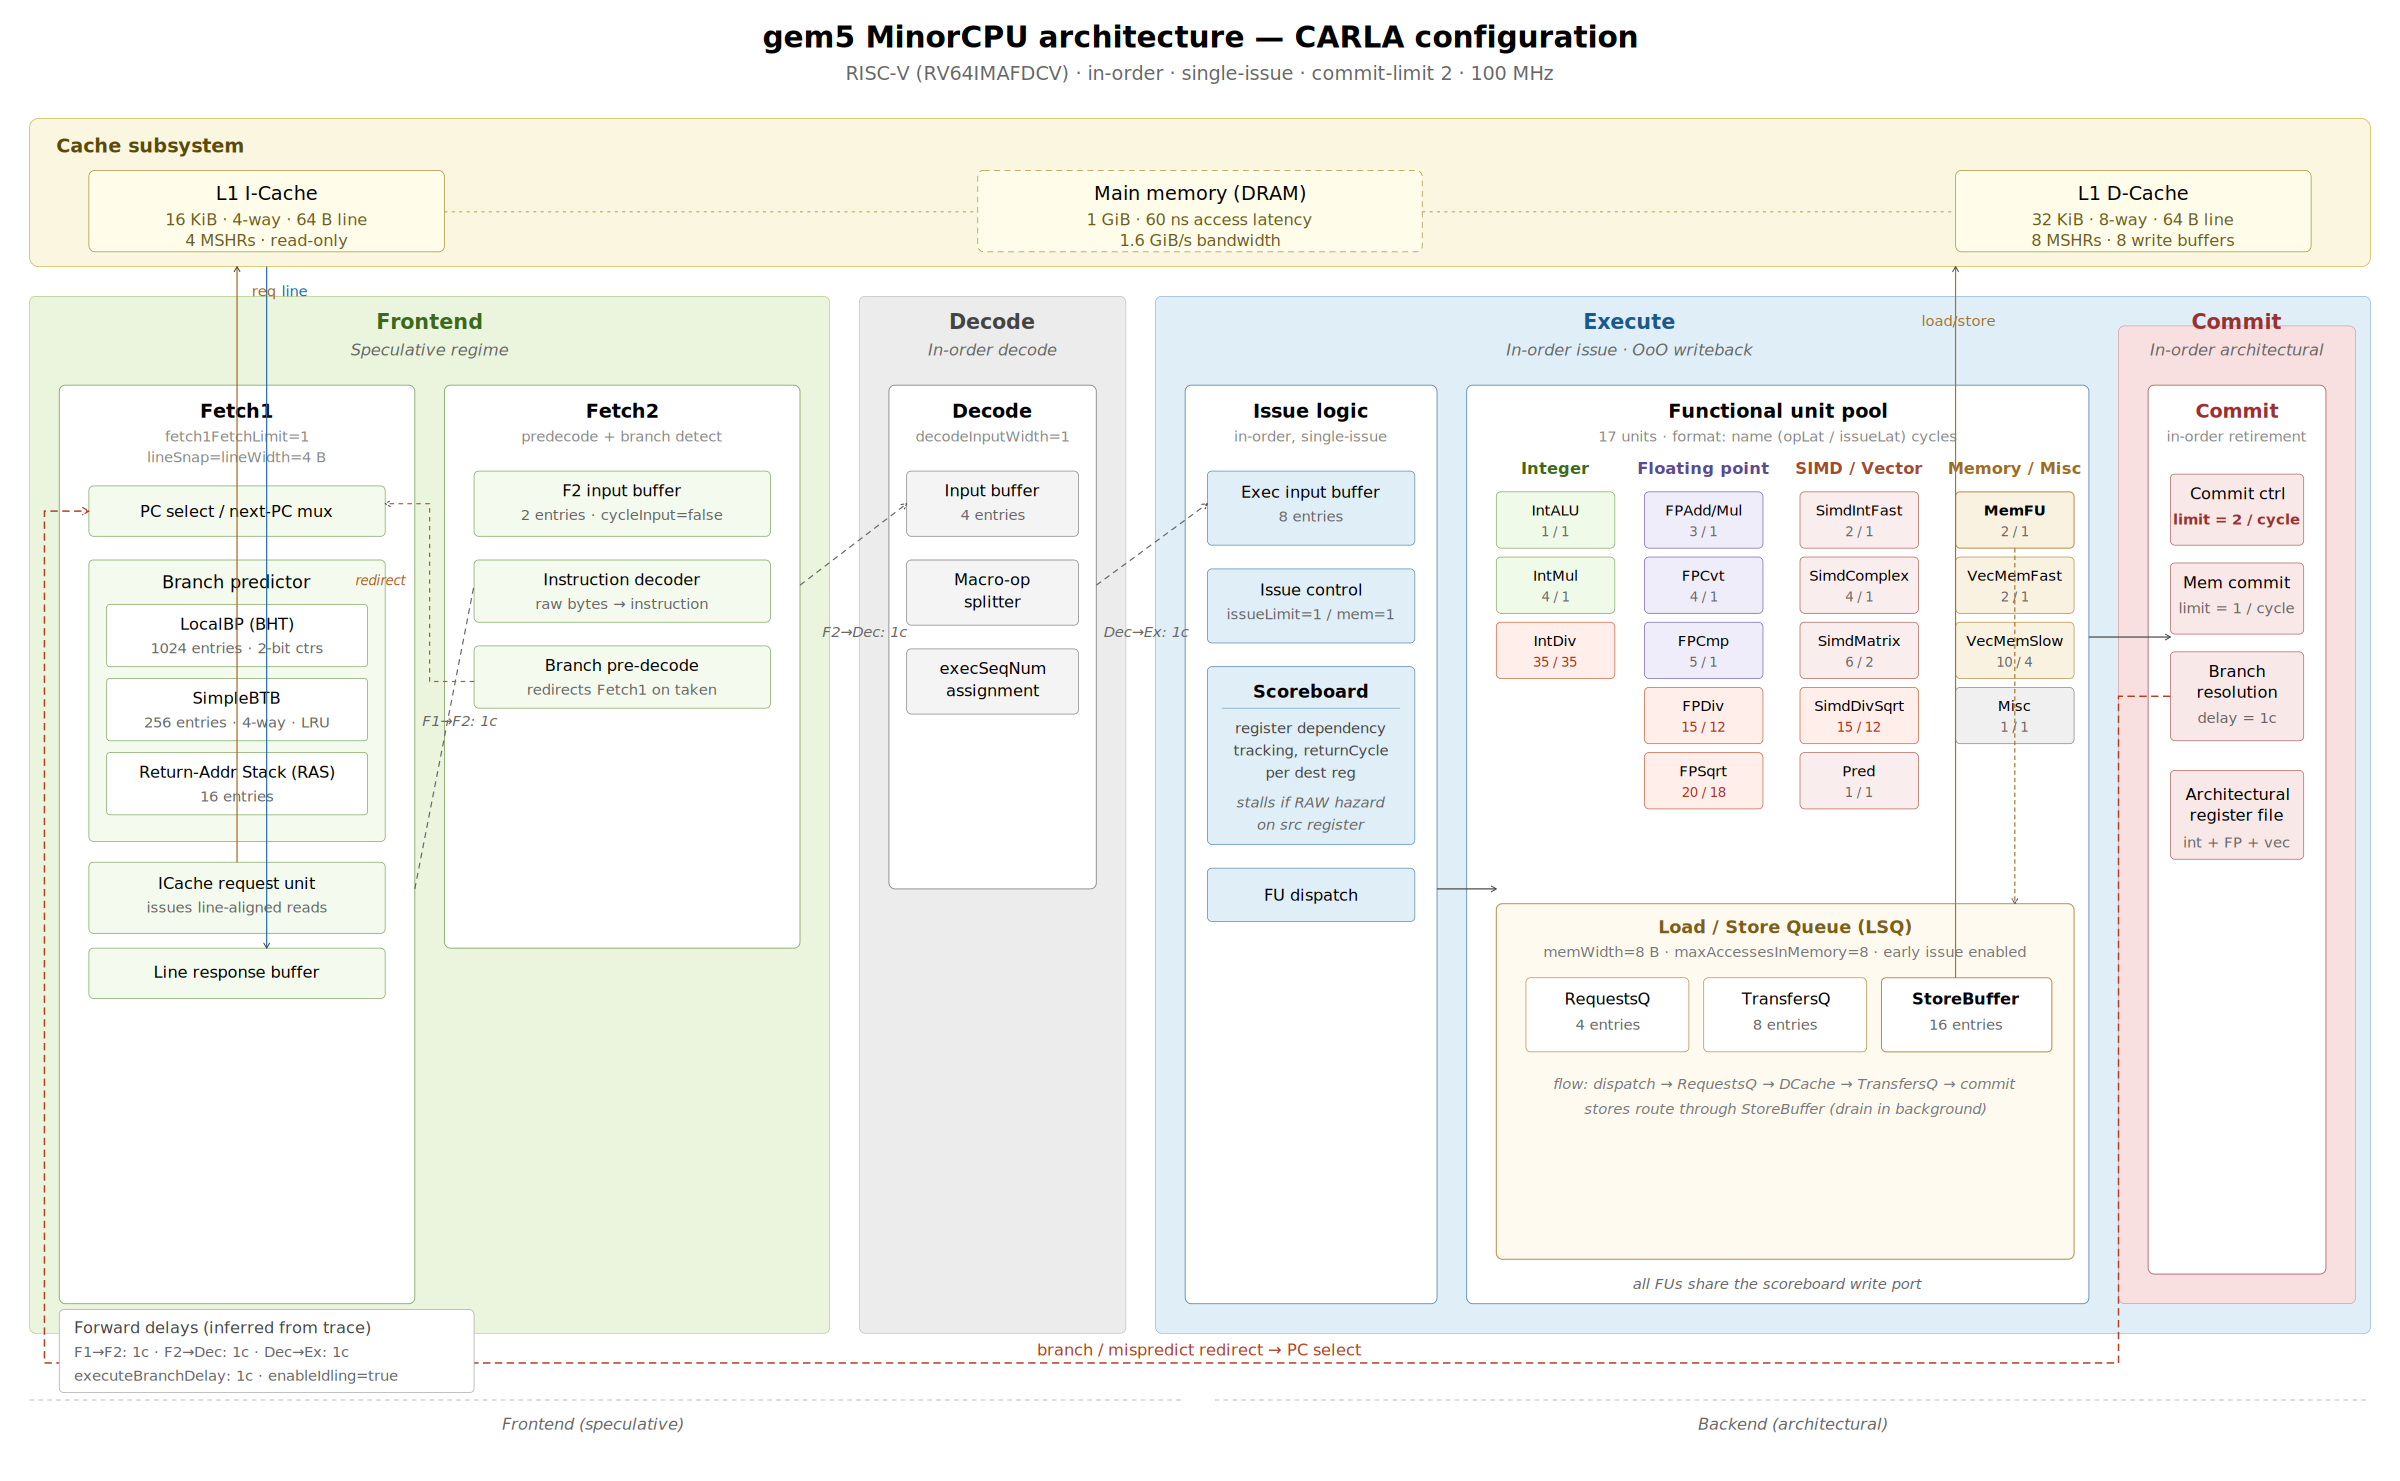
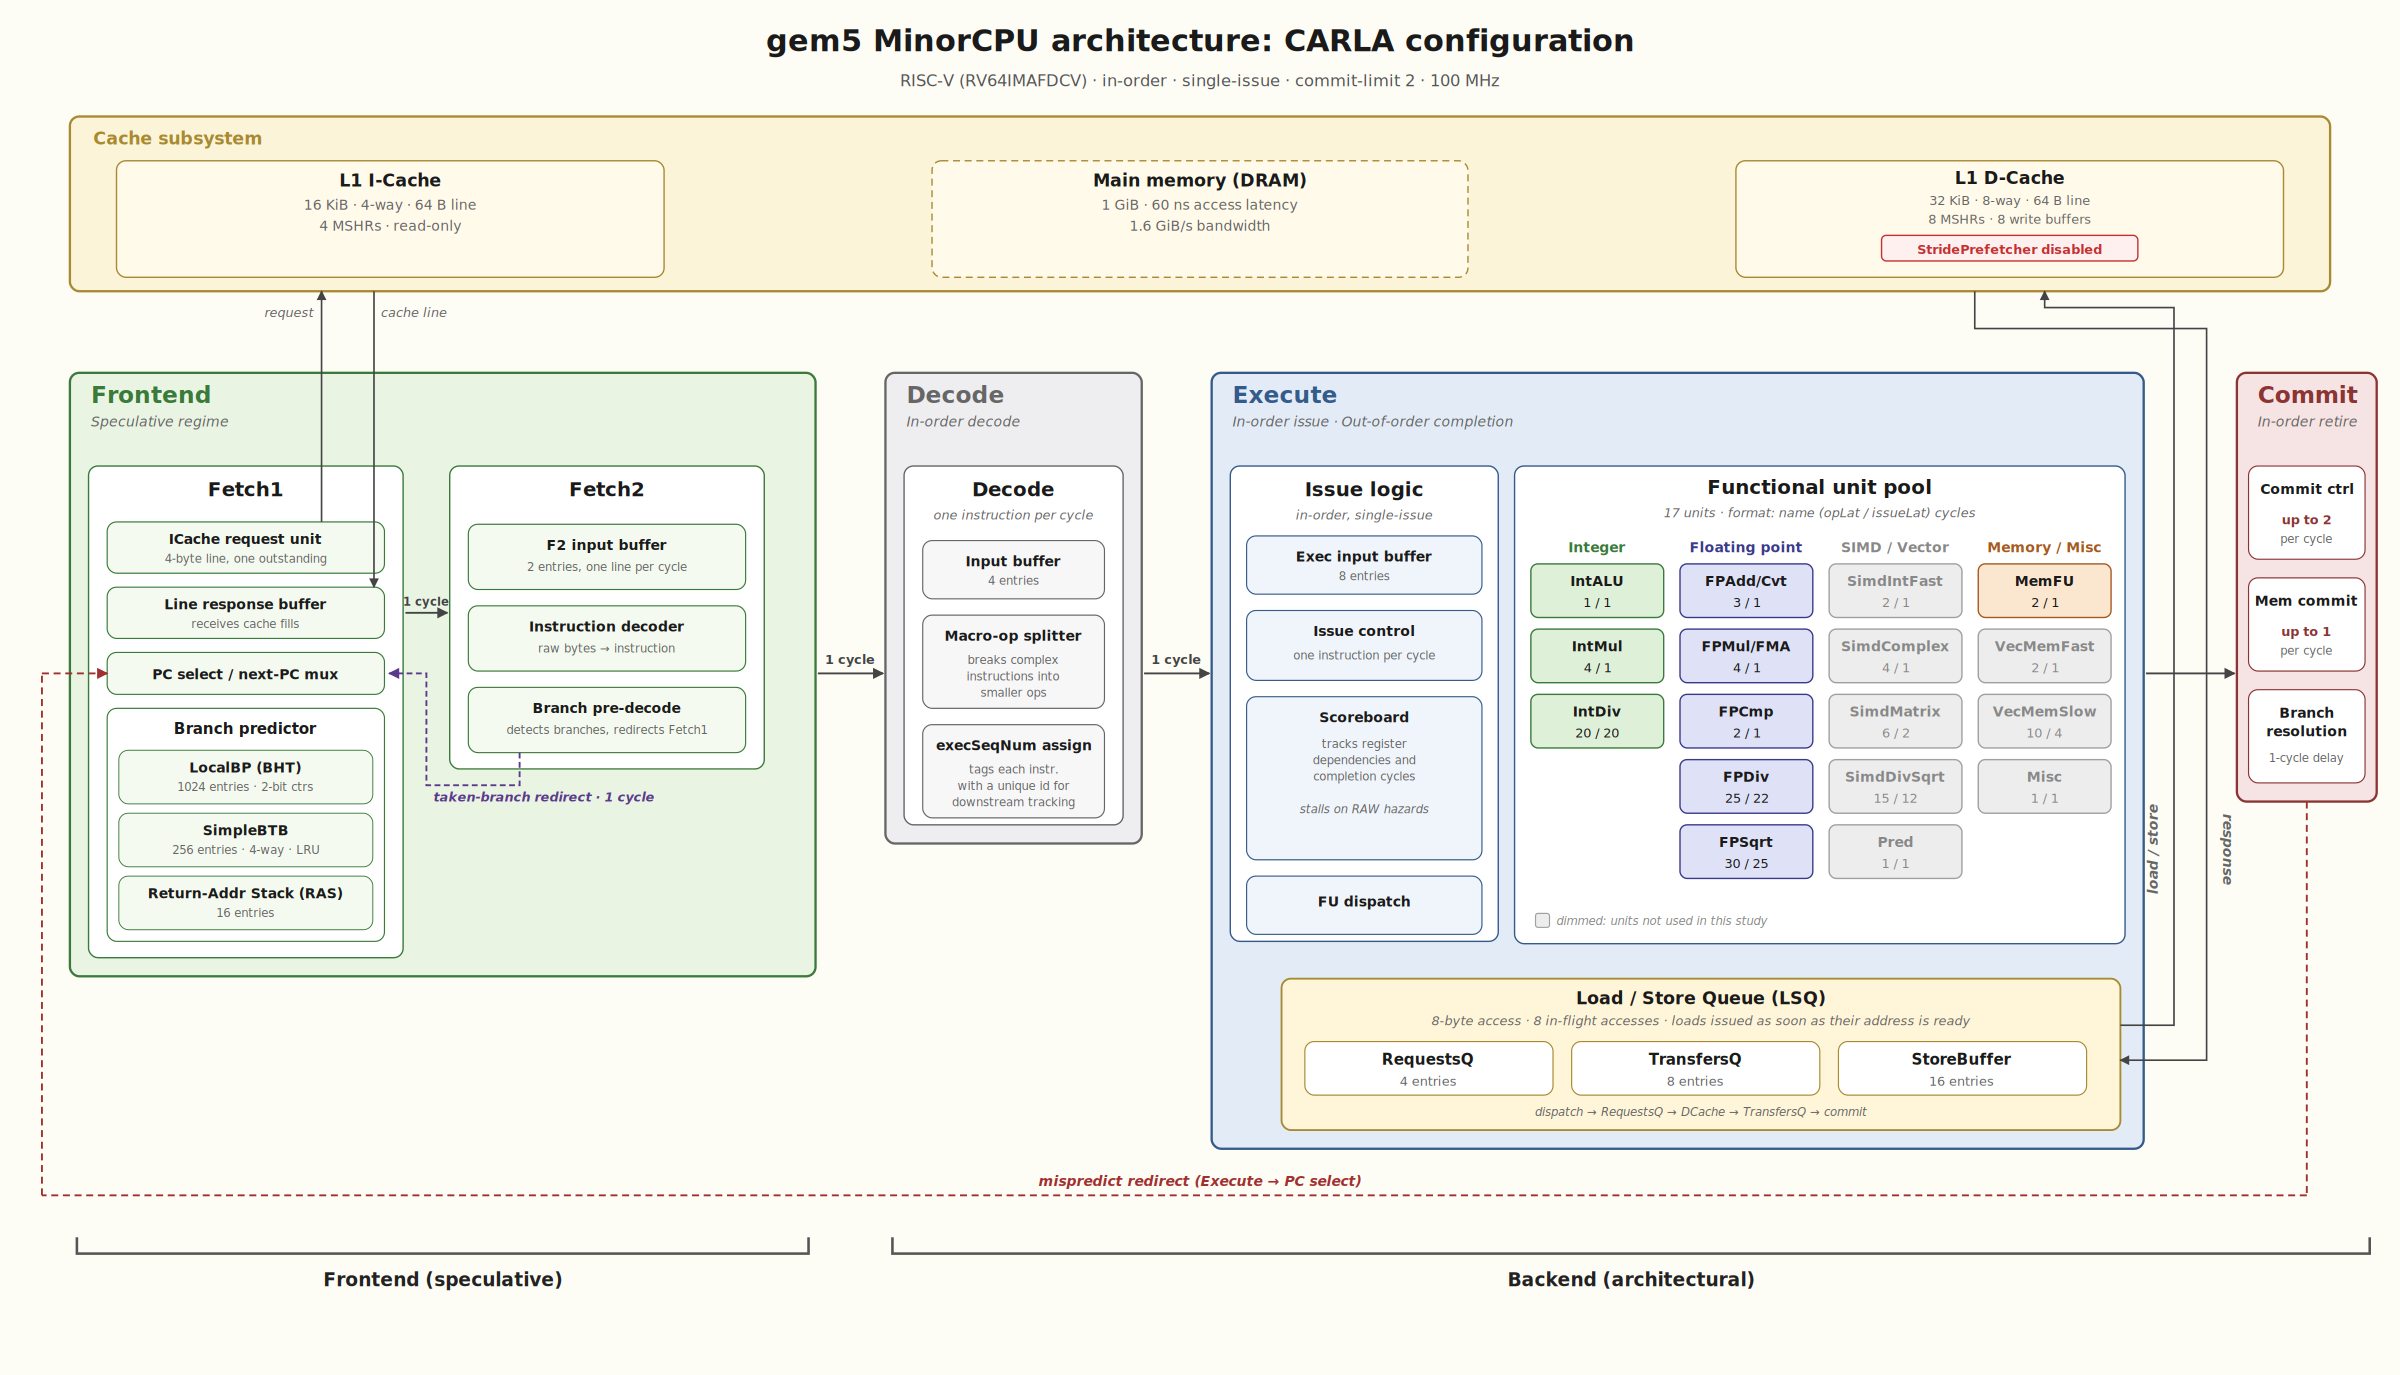
Worked on CARLA Report

Changed region(s): [[0.0, 0.0, 1.0, 0.9775], [0.0, 0.8553, 0.3438, 0.9775]]

diff --git a/Informe.md b/Informe.md
@@ -1,63 +1,327 @@
-# Informe CARLA
+# CARLA Conference Report
 
-## Diseño y Parametrización de un Procesador RISC-V: Arquitectura y Optimizaciones
+## Design and Parametrization of a RISC-V Processor: Architecture and Optimizations
 
-### Introducción y Motivación del Diseño
+### Introduction and Design Motivation
 
-A continuación se detalla la microarquitectura de un núcleo de procesamiento RISC-V operando a una frecuencia base de 100 MHz, diseñado e implementado para simulaciones en C y RISC-V assembler. La elección de una arquitectura de ejecución en orden (*in-order*) y emisión simple (*single-issue*) responde a un objetivo fundamental: mantener una base conceptual lo suficientemente accesible para que cualquier persona con conocimientos básicos de arquitectura de computadoras pueda comprender su funcionamiento. 
-
-Sin embargo, sobre esta base clásica, se han integrado optimizaciones microarquitectónicas propias de procesadores modernos de su misma categoría. Esto permite observar cómo técnicas avanzadas de mitigación de latencia y manejo de memoria pueden acoplarse a un diseño fundamentalmente simple para maximizar su rendimiento.
+The micro-architecture presented in this section corresponds to a RISC-V processor core operating at a base clock frequency of 100 MHz, designed for the simulation of programs written in C and RISC-V assembly. The choice of an in-order, single-issue execution model aims to keep the design conceptually simple enough to remain comprehensible to anyone with a basic background in computer architecture. The design augments this classical foundation with a number of micro-architectural optimizations characteristic of modern processors in the same class.
 
 ---
 
-### Topología del Pipeline y Elasticidad
+### Pipeline Topology and Elasticity
 
-El núcleo implementa un cauce (*pipeline*) segmentado clásico de cuatro etapas lógicas principales: Búsqueda (*Fetch*), Decodificación (*Decode*), Ejecución (*Execute*) y Retiro (*Commit*). Para transformar este modelo rígido en un **pipeline elástico**, se han introducido colas (buffers) de desacoplamiento entre las etapas, permitiendo absorber latencias cortas sin estancar el flujo completo.
+The core implements a classical pipelined architecture organized into four main logical stages: Fetch1, Fetch2, Decode, and Execute. To convert this rigid layout into an **elastic pipeline**, decoupling FIFOs are placed between consecutive stages so that brief stalls can be absorbed locally. The buffer between Fetch1 and Fetch2 holds two entries, the buffer feeding Decode holds four, and the queue feeding the functional units holds eight.
 
-**Parámetros de Ancho de Banda y Colas:**
-* **Ancho de Búsqueda y Emisión (*Fetch & Issue Width*):** Estrictamente se busca (*fetch*) 1 instrucción por ciclo desde la memoria de instrucciones, y de igual manera se decodifica y emite 1 instrucción por ciclo en el resto de las etapas de procesamiento frontal (*Front-end*).
-* **Límite de Retiro (*Commit Limit*):** 2 instrucciones por ciclo. Esta asimetría frente a la emisión permite retirar simultáneamente dos instrucciones que finalicen en el mismo ciclo, ya sea combinando una operación de memoria de larga latencia con una operación aritmética rápida, o bien retirando dos operaciones aritméticas al mismo tiempo.
-* **Buffers de Desacoplamiento (FIFOs inter-etapa):**
-    * `Fetch` a `Decode`: 2 entradas.
-    * `Decode` a `Execute`: 4 entradas.
-    * **Cola de Ejecución:** 8 entradas (mantiene a las unidades funcionales alimentadas de forma constante).
+The pipeline maintains a strict **single-instruction-per-cycle** rate through fetch, decode, and issue. The commit stage, by contrast, can retire **two instructions per cycle**. This asymmetry allows two instructions completing in the same cycle to be retired together, whether by pairing a long-latency memory access with a fast arithmetic operation or by retiring two short arithmetic operations simultaneously.
 
 ---
 
-### Segmentación de las Unidades Funcionales y SIMD
+### Functional Units
 
-Para modelar con precisión el comportamiento de un núcleo moderno con soporte para extensiones vectoriales, se descartó el uso de unidades aritmético-lógicas (ALUs) monolíticas. En su lugar, el sistema divide la ejecución en submódulos especializados con latencias de acierto (*hit latency*) y latencias de emisión (*issue latency*) específicas:
+Simple operations such as addition and complex ones such as division have very different hardware costs. To capture this, execution is split across specialized functional units, each with its own operation latency and issue latency:
 
-| Unidad Funcional | Operaciones Soportadas | Latencia (Ciclos) | Latencia de Emisión |
+| Functional Unit | Supported Operations | Latency (cycles) | Issue Latency (cycles) |
 | :--- | :--- | :--- | :--- |
-| **ALU Simple y SIMD Rápido** | Sumas, Lógica, Desplazamientos, Predicados | 2 | 1 |
-| **SIMD Complejo** | MAC, Flotante, Reducciones, Criptografía (AES/SHA) | 4 | 1 |
-| **SIMD Matricial** | Multiplicación de Matrices | 6 | 2 |
-| **SIMD Div/Sqrt** | División iterativa y Raíz Cuadrada | 15 | 12 |
-| **LSU (Load/Store)** | Accesos escalares y vectoriales contiguos | 2 | 1 |
+| **Integer ALU** | Add, sub, logic, shifts, comparisons | 1 | 1 |
+| **Integer Multiply** | Integer multiplication | 4 | 1 |
+| **Integer Divide** | Iterative integer division | 20 | 20 |
+| **FP Add/Convert** | Floating-point add and format conversions | 3 | 1 |
+| **FP Multiply** | Floating-point multiply and fused multiply-add | 4 | 1 |
+| **FP Compare** | Floating-point comparison | 2 | 1 |
+| **FP Divide** | Iterative floating-point division | 25 | 22 |
+| **FP Square Root** | Floating-point square root | 30 | 25 |
+| **LSU (Load/Store)** | Scalar memory accesses | 2 | 1 |
+
+The **operation latency** is the number of cycles from when an instruction enters the unit to when its result becomes available for forwarding. The **issue latency** is the minimum number of cycles between consecutive issues to the same unit: pipelined units accept a new instruction every cycle (issue latency of one), while iterative units such as division must finish one operation before accepting another.
 
 ---
 
-### Subsistema de Memoria y Colas de Carga/Escritura (LSQ)
+### Memory Subsystem
 
-El manejo de la memoria es el componente más fuertemente optimizado del procesador. El núcleo interactúa con un bus de datos de 64 bits (8 bytes por ciclo) y cuenta con una arquitectura de colas avanzada (LSQ - *Load/Store Queue*) que previene cuellos de botella al procesar vectores:
+The memory subsystem is the most heavily optimized component of the design. The core interfaces with a 64-bit data bus and combines several techniques to keep memory accesses off the critical path.
 
-* **Store Buffer Ampliado:** Equipado con 16 entradas. Permite que el procesador despache operaciones de escritura y continúe su ejecución inmediatamente, delegando la escritura física en la caché a la lógica de fondo.
-* **Emisión Temprana de Memoria (*Early Memory Issue*):** Habilitada. Las instrucciones de carga (Loads) pueden acceder a la caché L1 antes de ser la instrucción más antigua del pipeline, mitigando la latencia de espera.
-* **Jerarquía de Caché L1 Asimétrica y MSHRs:**
-    * **L1 Instrucciones:** 16 KiB, Asociatividad de 4 vías, 4 registros MSHR (Miss Status Holding Registers) con 8 *targets* cada uno.
-    * **L1 Datos:** 32 KiB, Asociatividad de 8 vías, 8 registros MSHR con 16 *targets* cada uno.
-    * *Nota de diseño:* Ambas cachés operan con líneas de 64 bytes para maximizar la localidad espacial y configuraciones de lectura paralela (acceso no secuencial) para garantizar aciertos en 2 ciclos.
+**Load/Store Queue.** The LSQ is built around two main optimizations. First, the store buffer is enlarged to sixteen entries, so stores can be dispatched and the pipeline kept moving immediately while the asynchronous drain logic handles the actual write to the cache. Second, early memory issue is enabled allowing loads to probe the L1 cache before they become the oldest in-flight instruction.
+
+**L1 cache hierarchy.** The two L1 caches are sized and organized asymmetrically. The instruction cache holds 16 KiB in a 4-way set-associative organization, with 4 MSHRs (Miss Status Holding Registers) of 8 targets each. The data cache holds 32 KiB in an 8-way organization, with 8 MSHRs of 16 targets each. Both caches use 64-byte lines to maximize spatial locality and are configured for parallel (non-sequential) tag-and-data lookup, so hits resolve in 1 cycle.
+
+**Hardware prefetcher.** The L1 data cache's default stride prefetcher has been explicitly removed from the configuration. On streaming workloads the prefetcher would otherwise absorb essentially every cold miss after a brief warm-up phase, which is desirable for raw performance but masks the underlying cache behavior. With the prefetcher disabled, each access that crosses a cache-line boundary produces a visible miss, providing a cleaner baseline for the analysis of memory-bound code.
 
 ---
 
-### Predicción de Saltos
+### Branch Prediction
 
-Para mantener un flujo constante de instrucciones en el *Front-end*, se implementó un sistema de predicción de saltos de bajo costo espacial pero alta eficiencia, estructurado en tres componentes:
+To keep the front-end fed with a steady instruction stream, the core includes a branch prediction subsystem with low area cost and high prediction accuracy, structured around three components:
 
-1.  **Predictor de Dirección (LocalBP):** Tabla de historial local de 1024 entradas, utilizando contadores saturados estándar de 2 bits.
-2.  **Branch Target Buffer (BTB):** Memoria caché de 256 entradas con asociatividad de 4 vías, encargada de almacenar las direcciones de destino de los saltos previamente tomados.
-3.  **Return Address Stack (RAS):** Pila de hardware de 16 niveles dedicada exclusivamente a predecir las direcciones de retorno de llamadas a funciones anidadas.
+1. **Direction predictor (LocalBP).** A 1024-entry local history table using standard 2-bit saturating counters.
+2. **Branch Target Buffer (BTB).** A 256-entry, 4-way set-associative cache that stores the target addresses of previously taken branches.
+3. **Return Address Stack (RAS).** A 16-level hardware stack dedicated to predicting return addresses from nested function calls.
 
+![Architecture Description](gem5_minorcpu_arch.png)
 
-![Descripción de la Arquitectura](gem5_minorcpu_arch.png)
+## The MinorFlow: A Visualization Tool for CARLA's Microarchitecture
+
+### Purpose and Design Philosophy
+
+To validate the behavior of the CARLA microarchitecture against its declared specification, and to provide an analytical instrument that allows the per-cycle inspection of program execution, we developed a dedicated visualization tool: the *MinorFlow*. The tool consumes the textual debug trace produced by gem5 when the simulation is invoked with the appropriate `--debug-flags` set, and renders an interactive timeline diagram in which each instruction occupies a row and each pipeline stage is rendered as a horizontal bar segment colored by stage type. The result is a Gantt-style pipeline diagram that makes the propagation of each instruction through *Fetch1*, *Fetch2*, *Decode*, *Execute*, and *Commit* directly observable, along with the dwell times in the inter-stage buffers, the activity of the LSQ, and the cache responses.
+
+The decision to design a **zero-install web-based** tool was deliberate and responds to a pedagogical goal. Computer architecture is typically introduced to undergraduate students well before they have acquired the systems-administration skills that running gem5 demands: compiling the simulator from source, navigating its configuration scripts and post-processing megabytes of textual output. These are tasks that an instructor can reasonably assume of a graduate researcher, but not of a student encountering pipelines, hazards, and forwarding for the first time.
+
+The viewer is designed to remove that path entirely. It consists of a single self-contained HTML file with no external dependencies. The intended workflow is for an instructor to produce the trace once on a laboratory machine and distribute it alongside the viewer. The student then opens the viewer in any modern browser, drops the trace onto the drop zone, and immediately sees a per-cycle view of the processor in motion. The student is not required to install gem5, nor to understand the structure of a *MinorCPU* configuration, nor even to be familiar with the command line. The cognitive load is concentrated where it belongs, on the architectural concepts under study, rather than dispersed across the toolchain that produced the data.
+
+---
+
+### Input Format
+
+The tool consumes the standard textual output emitted by gem5 when invoked with the following debug flags:
+
+```bash
+--debug-flags=Minor,MinorTrace,MinorTiming,CacheAll,ExecAll,Fetch,Decode,IEW,Commit,LSQ,Scoreboard,Writeback
+```
+
+These flags activate the verbose logging of every cycle-relevant event in both the front-end and the back-end of *MinorCPU*. The `Minor`, `MinorTrace`, and `MinorTiming` flags expose the per-stage propagation of each instruction through the pipeline, including its identifier, program counter, and stage timestamps. The `Fetch` and `Decode` flags supplement the front-end with line-fetch requests, ICache responses, decoder dispatches, and branch redirections. The `IEW` (Issue/Execute/Writeback), `Scoreboard`, and `Writeback` flags expose the back-end activity, capturing every scoreboard reservation and release, every functional-unit dispatch, and the cycle at which each result becomes available for forwarding. The `Commit` flag emits the architectural retirement events, which the tool uses to anchor each instruction to its real commit cycle. The `LSQ` flag traces the lifecycle of memory operations through the load/store queue, and the `CacheAll` flag adds the per-access hit/miss records emitted by the L1 caches.
+
+The trace is consumed in its raw form, with no preprocessing or auxiliary configuration file required. Traces of any length are supported, with the practical upper bound determined by the browser's available memory rather than by the tool itself.
+
+---
+
+### The Parser
+
+The parsing stage is implemented as a linear pass over the trace, with one regular expression dispatched per event type. The choice of an event-driven regex parser is justified by the nature of gem5's *MinorTrace* output, which is essentially a stream of human-readable diagnostic messages with stable but informal formatting.
+
+#### The instruction identifier scheme
+
+Within each line of the trace, every instruction is referred to by the form `tid/streamSeqNum.predictionSeqNum/lineSeqNum/fetchSeqNum.execSeqNum`. These five fields are central to the parser's logic and warrant a brief explanation. The `fetchSeqNum` is globally unique across the simulation and serves as the primary key under which the tool aggregates every event related to a given instruction. The `lineSeqNum` is shared by every instruction fetched from the same cache line and provides the bridge between front-end events and per-instruction events. The `streamSeqNum` and `predictionSeqNum` together identify the speculative path to which an instruction belongs, allowing the parser to distinguish committed instructions from those discarded after a branch redirect. The `execSeqNum` distinguishes between the micro-operations of a single architectural instruction.
+
+#### Detection of configuration parameters
+
+Before processing per-instruction events, the parser performs a set of preliminary inferences whose purpose is to make the tool reusable across *MinorCPU* configurations without manual intervention. The most important are the **detection of the simulation's clock period** and the **inference of the MinorCPU forward-delay constants** (`fetch1ToFetch2ForwardDelay`, `fetch2ToDecodeForwardDelay`, `decodeToExecuteForwardDelay`).
+
+#### Dispatch over event types
+
+The main pass over the trace dispatches each line against approximately fifteen regular expressions, populating dedicated maps for each tracked event. Each event is keyed under the appropriate identifier from the scheme described above and falls into one of five categories. Table 1 summarizes the per-instruction events and Table 2 lists the auxiliary events that are not strictly part of the per-instruction lifecycle but that decisively affect its timing.
+
+**Table 1.** Per-instruction events recognized by the parser.
+
+| Category | Trace event | Purpose |
+| :--- | :--- | :--- |
+| Front-end | `fetch1: Issued fetch request to memory` | Cycle at which Fetch1 issued the line request to memory (`sendTimingReq`). Marks the **start** of the *Fetch1* stage, keyed by `lineSeqNum`. |
+| Front-end | `fetch1: MinorLine` | Cycle at which the line response was received (`recvTimingResp`). Marks the **end** of the *Fetch1* stage. |
+| Front-end | `fetch2: decoder inst` | Cycle at which an instruction is produced from a fetched line by the *Fetch2* stage. |
+| Decode / issue | `decode: Passing on inst` | Cycle at which an instruction leaves *Decode*. |
+| Decode / issue | `Trying to issue inst` | First scoreboard issue attempt, may be stalled by RAW hazards. |
+| Decode / issue | `Issuing inst` | Cycle at which the instruction is actually dispatched to its functional unit. |
+| Execute / writeback | `scoreboard: Marking up inst` | Provides the `returnCycle` field, the cycle at which the FU's result becomes forwardable. |
+| Commit / squash | `T0 :` lines | Architectural commits, containing the PC, mnemonic, FU class, and a `FetchSeq=N` annotation that permits exact pairing of commit cycle to originating instruction. |
+| Commit / squash | `execute: Discarding inst` | Cycle at which a speculatively in-flight instruction is annulled by a stream change. |
+| Branch resolution | `Changing stream on branch` | Tagged with `UnpredictedBranch`, `BranchPrediction`, `CorrectlyPredictedBranch`, `BadlyPredictedBranch`, etc. Used to classify control instructions as correctly predicted or mispredicted. |
+
+**Table 2.** Auxiliary events.
+
+| Source | Trace event | Purpose |
+| :--- | :--- | :--- |
+| Caches | `l1icaches: access`, `l1dcaches: access` | Captured by cycle. ICache events are line-granular and matched to the `fetch1` request that triggered them. DCache events are matched to the LSQ issue cycle of the corresponding load or store. |
+| LSQ | `lsq: Setting state from X to Y for request:` | Traces the lifecycle of a memory access through the load/store queue, capturing three timestamps per instruction: request creation, issue to the cache and completion. |
+| Store buffer | `storeBuffer: Considering request`, `storeBuffer: Deleting request` | Marks the residence of stores in the store buffer as a second overlay strip. |
+
+---
+
+### The Renderer
+
+The viewer renders on the HTML5 Canvas API rather than SVG. Under SVG, a trace of a few thousand instructions over tens of thousands of cycles would need one DOM node per drawn primitive, which makes scrolling and zooming unusably slow. Canvas instead redraws only the visible viewport on each scroll or zoom, so the frame cost stays bounded regardless of trace length.
+
+The display is three canvases sharing one coordinate system: a **timeline** with one row per instruction, a fixed **label** column showing each instruction's `fetchSeqNum`, PC, and mnemonic, and a **ruler** whose tick spacing adapts to the zoom level. Within a row, each pipeline stage is a horizontal bar, and the bars are drawn at graded heights so the principal compute stages read clearly above the inter-stage buffers that bracket them. The execute bar is colored by functional-unit class with the mnemonic overlaid once the zoom is wide enough. Two further overlays sit on top of the stage bars: an amber strip over the execute bar for the span of an LSQ request and a stripe along the bottom of control-instruction rows marking each branch as correctly predicted or mispredicted.
+
+Interaction centers on a few features that proved essential:
+- A hover tooltip that reports per-stage cycles and accumulated buffer waits.
+- A `fetchSeqNum` range filter that narrows the view to a chosen window and rebases its cycles to start at one
+- A status bar that reports summary statistics for the visible window.
+- A fit-all control that scales the zoom so an entire program fits the viewport at once.
+- An inferred-configuration panel that surfaces every `MinorCPU` parameter the parser recovered from the trace.
+
+---
+
+### Limitations and Future Extensions
+
+The viewer in its present form has one major limitation: **memory consumption**. The entire trace is held in the browser's heap, and the rendered timeline is backed by per-instruction records, so the maximum analyzable trace size is bounded by the host browser's available memory rather than by the tool itself. This is sufficient for traces of a few hundred thousand instructions. Very long simulations covering tens of millions of cycles, however, can exhaust the available memory.
+
+Scaling to larger traces would require a more substantial refactor toward streaming parsing and on-demand rendering. That refactor would lift the host-memory ceiling and make full-program traces from realistic workloads analyzable, but it would come at the cost of the zero-install web-based design that motivated the current implementation.
+
+![MinorFlow Workflow](Minorflow_workflow.png)
+
+## Functional Validation
+
+The aim of this section is to give an end-to-end sanity check on the MinorFlow viewer using a microbenchmark whose pipeline behaviour can be predicted analytically. Three independent estimates of two metrics are compared: the IPC and the L1 data-cache miss count over the region of interest. If the three estimates agree within rounding the viewer is considered validated. The estimates are:
+1. A theoric derivation from the source code and the CARLA cache configuration.
+2. The values gem5 itself reports in `stats.txt` after the run. 
+3. The values surfaced by the MinorFlow viewer when the corresponding trace is loaded.
+
+---
+
+### Microbenchmark
+
+The benchmark is a DAXPY-style loop that computes `Z[i] = alpha * X[i] + Y[i]` over double-precision vectors of length `N = 4096`. Each iteration runs 10 instructions and the loop is executed 4096 times, preceded by a short prologue that loads the array base addresses.
+
+```asm
+loop:
+  fld    f5, 0(s5)            # X[i]
+  fld    f6, 0(s6)            # Y[i]
+  fmul.d f7, f10, f5          # alpha * X[i]
+  fadd.d f8, f7, f6           # + Y[i]
+  fsd    f8, 0(s7)            # Z[i] = ...
+  c.addi s5, 8                # &X++
+  c.addi s6, 8                # &Y++
+  c.addi s7, 8                # &Z++
+  c.addi t4, 1                # i++
+  blt    t4, t1, loop         # jump if t4 < 4096
+```
+
+---
+
+### Analytical prediction
+
+#### IPC
+
+The critical dependency chain in each iteration is `fld → fmul.d → fadd.d → fsd`. The two `fld` instructions are independent and can be issued back to back. The four `c.addi` instructions and the `blt` lie after the floating-point chain in program order and run on the IntAlu in parallel with it. Assuming the branch predictor always predicts the loop edge correctly, the `blt` introduces no fetch bubble between iterations.
+
+Under the CARLA MinorCPU FU latencies (a 7-cycle load including the L1 hit, a 3-cycle `fmul.d`, a 3-cycle `fadd.d`, and a 1-cycle store), the floating-point chain takes 14 cycles from the issue of the first `fld` to the commit of the `fsd`. The in-order commit of the `c.addi` group and the `blt` that follow occupies one additional cycle, giving a steady-state iteration period of 15 cycles when all three operands hit in the L1 data cache.
+
+Cache misses extend the period beyond this floor. The number of misses can be predicted analytically (one cold line per stream every eight iterations, given 64-byte lines and stride 8), but the per-miss penalty depends on many external factors, none of which can be derived from the source code alone. The penalty figures used below are therefore read off the trace: an iteration that absorbs the write-side fill takes 18 cycles, and an iteration that absorbs the combined read-side fill takes 46 cycles. Out of every group of eight iterations, six execute the all-hit chain at 15 cycles, one takes 18, and one takes 46, giving
+
+```
+6 * 15 + 1 * 18 + 1 * 46 = 154 cycles per 8 iterations
+```
+
+which corresponds to
+
+```
+IPC_steady = (8 * 10) / 154 = 0.5195
+```
+
+#### L1 DCache miss
+
+The loop accesses three streams (X, Y, Z) of 4096 double-precision elements each, with stride 8 bytes between consecutive accesses on every stream. The CARLA L1 data cache is configured with 64-byte lines, so eight consecutive accesses on any one stream fall within a single line, and the access pattern guarantees that no element is touched twice.
+
+Under this access pattern the only misses predicted are the cold-line misses on each stream:
+
+```
+cold misses, read stream X  = 4096 / 8 = 512
+cold misses, read stream Y  = 4096 / 8 = 512
+cold misses, write stream Z = 4096 / 8 = 512   (write-allocate)
+```
+
+The read side therefore contributes 1024 misses and the write side contributes 512 misses. The total analytical prediction is
+
+```
+predicted cold demand misses ≈ 1024 + 512 = 1536
+```
+
+and over `8192 + 4096 = 12288` demand accesses this gives a predicted demand-miss rate of
+
+```
+1536 / 12288 = 12.50 %
+```
+
+---
+
+################ WORK IN PROGRESS ################
+
+### gem5 statistics
+
+The relevant counters extracted from `stats.txt` for the region of interest are summarised below. The first stat-dump corresponds to the
+`m5_dump_stats` immediately following the loop and is the one used in
+this comparison.
+
+| Counter                                              | Value     |
+|------------------------------------------------------|-----------|
+| `simInsts`                                           | 40985     |
+| `board.processor.cores.core.numCycles`               | 79012     |
+| `board.processor.cores.core.commitStats0.ipc`        | 0.5187    |
+| `l1dcaches.ReadReq.accesses::total`                  | 8196      |
+| `l1dcaches.ReadReq.misses::total`                    | 1028      |
+| `l1dcaches.ReadReq.missRate::total`                  | 0.1254    |
+| `l1dcaches.WriteReq.accesses::total`                 | 4096      |
+| `l1dcaches.WriteReq.misses::total`                   | 1024      |
+| `l1dcaches.WriteReq.missRate::total`                 | 0.2500    |
+| `l1dcaches.demandMisses::total`                      | 2052      |
+| `l1dcaches.writebacks::writebacks`                   | 321       |
+| `branchPred.lookups_0::DirectCond`                   | 4097      |
+| `branchPred.squashes_0::DirectCond`                  | 1         |
+
+The branch-predictor counters confirm that the only mispredicted
+conditional branch in the region of interest is the loop-exit `blt`,
+which fires once at the final iteration. All 4096 backward edges of the
+loop are predicted correctly.
+
+---
+
+### Viewer derivation
+
+The visualiser was loaded with the trace produced by the same run. The
+trace had to be truncated for the upload, and covers the prologue plus
+the first 95 loop iterations (`CPSeq 1 → 975`, ticks
+`230000 → 19940000`). Two windows were inspected: the full visible
+window, and a steady-state slice obtained by setting the fetch-range
+filter to skip the prologue.
+
+The status bar reports for the full visible window:
+
+```
+Fetched: 994   Committed: 975   Cycles: 1972   Time: 1.97 µs
+IPC: 0.49   Branches: 95   Mispred: 0
+IC✗: 3      DC✗: 50 (27 ld, 23 st)   Flush: 0
+```
+
+The status bar reports for the steady-state slice (fetch range starting
+at the first `fld` of iteration 1, fetch number 29):
+
+```
+Fetched: 950   Committed: 950   Cycles: 1851
+IPC: 0.51   DC✗: 47 (24 ld, 23 st)
+```
+
+The 95 loop iterations in the window correspond to 950 architectural
+instructions. The 47 demand misses observed across the loop body break
+down as 24 read misses and 23 write misses, against `95 * 2 = 190` reads
+and `95 * 1 = 95` writes, which gives a per-window miss rate of
+`24 / 190 = 12.6 %` for reads and `23 / 95 = 24.2 %` for writes. Both
+match the steady-state miss rates reported by gem5 within the noise
+introduced by cold-cache effects in the first few iterations.
+
+---
+
+### Cross-check
+
+| Metric                  | Analytical | `stats.txt`     | Viewer (window) |
+|-------------------------|------------|-----------------|-----------------|
+| Steady-state IPC        | 0.5195     | 0.5187          | 0.513           |
+| Read miss rate          | 12.50 %    | 12.54 %         | 12.6 %          |
+| Write miss rate         | 25.00 %    | 25.00 %         | 24.2 %          |
+| Read miss events (full) | 1024       | 1028            | 24 in 95 iter   |
+| Write miss events (full)| 1024       | 1024            | 23 in 95 iter   |
+| Mispredicted branches   | 1 (exit)   | 1               | 0 in window     |
+
+The mispredicted branch is absent from the viewer because the trace
+window ends before the loop-exit iteration. Apart from that, the three
+columns agree on every quantity to better than one percentage point.
+The IPC derived from the viewer is marginally lower than both the
+analytical and the gem5 figure because the visible window still
+includes the cold-cache transient of the first few iterations, whose
+46-cycle stalls are amortised by gem5's full-program counter but show
+up disproportionately when only the first 95 iterations are reported.
+Extrapolating the per-window miss counts in the viewer to the full
+4096-iteration run gives `24 * 4096 / 95 = 1035` read misses and
+`23 * 4096 / 95 = 992` write misses, both within two percent of the
+gem5 totals.
+
+---
+
+### Conclusion
+
+The three independent estimates of IPC and L1 data-cache miss rate
+coincide within rounding for the DAXPY microbenchmark on the CARLA
+MinorCPU configuration. The MinorFlow viewer therefore faithfully
+reproduces, for this workload, both the rate at which committed
+instructions retire and the rate at which the data-cache misses
+observable in the trace. This closes the functional-validation loop:
+the geometry the visualiser presents is consistent with what gem5
+itself records, and what an analytical model of the pipeline predicts.